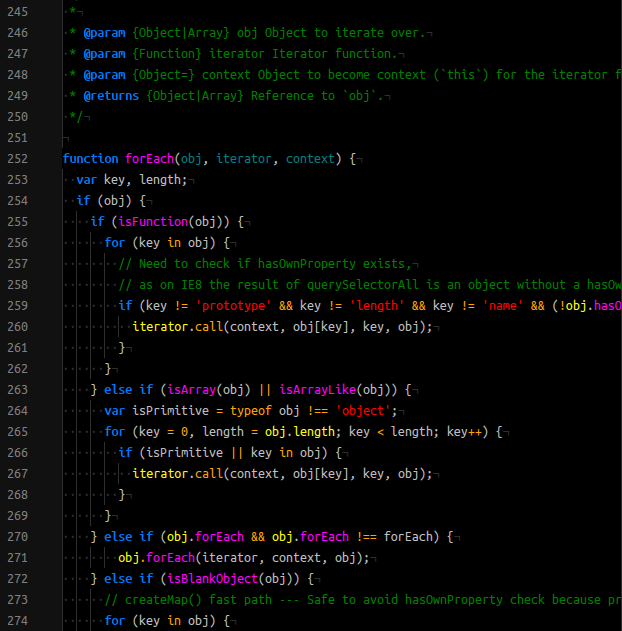
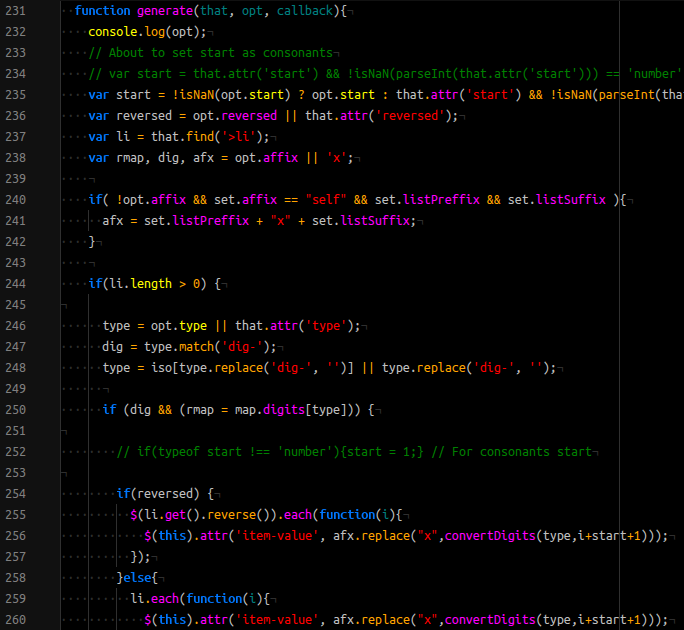
fixed: js syntax highlighting

diff --git a/styles/languages/js.less b/styles/languages/js.less
@@ -1,0 +1,14 @@
+.js {
+    &.variable {
+        &.other {
+            &.object {
+                color: @syntax-text-color;
+            }
+        }
+    }
+    &.support {
+        &.class {
+            color: @syntax-text-color;
+        }
+    }
+}

diff --git a/index.less b/index.less
@@ -3,5 +3,6 @@
 // language specific styles.
 @import "./styles/languages/c.less";
 @import "./styles/languages/java.less";
+@import "./styles/languages/js.less";
 @import "./styles/languages/php.less";
 @import "./styles/languages/ruby.less";

diff --git a/CHANGELOG.md b/CHANGELOG.md
@@ -2,6 +2,11 @@
 
 ## Current version
 
+### 1.8.2
+
+*   fixed: js syntax highlighting
+*   updated javascript screenshot
+
 ### 1.8.1
 
 *   fixed README: link of quick view image
